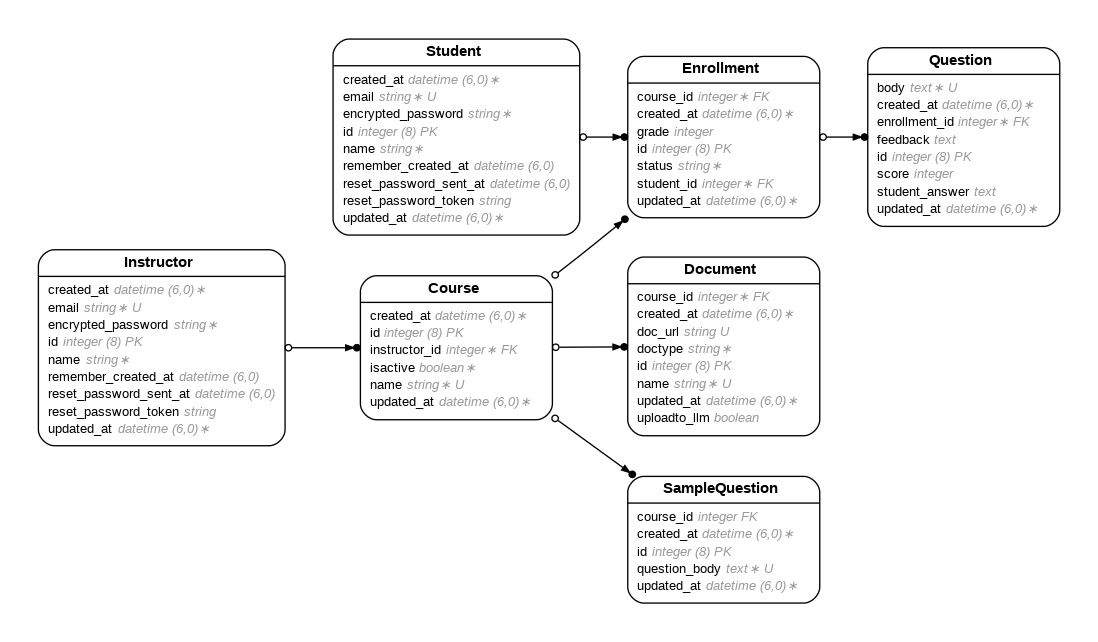
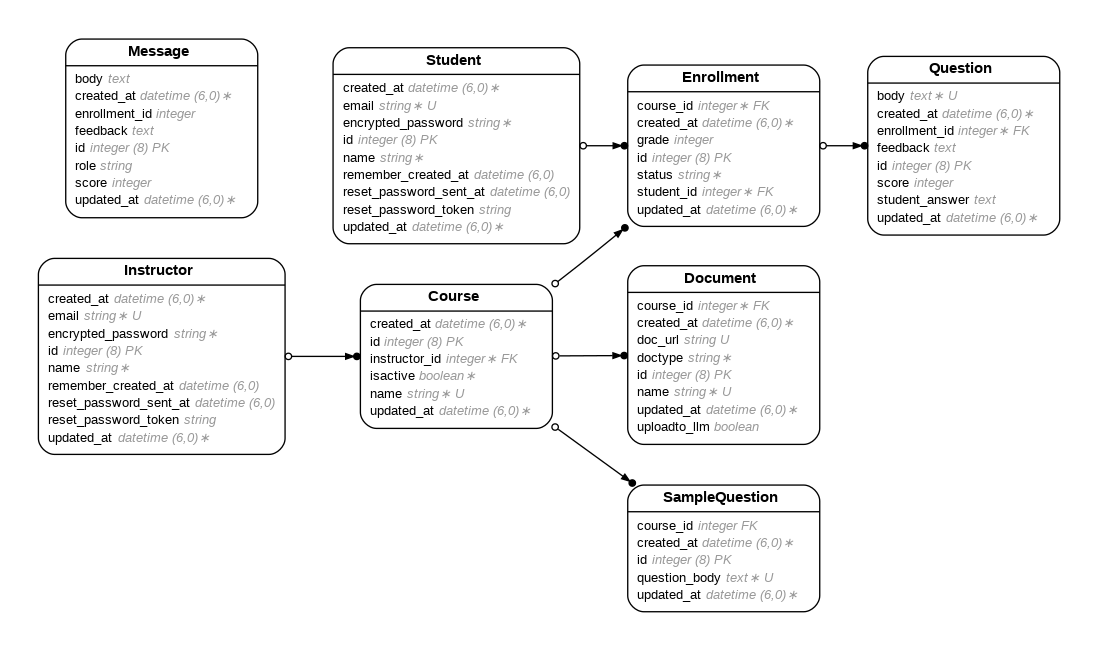
added messages model. Still working on views.

diff --git a/app/controllers/student_controller.rb b/app/controllers/student_controller.rb
@@ -23,4 +23,27 @@ class StudentController < ApplicationController
     end
   end
 
+  def message_create
+    the_message = Message.new
+    the_message.enrollment_id = params.fetch("query_enrollment_id")
+    the_message.body = params.fetch("query_body")
+    the_message.role = params.fetch("query_role")
+    the_message.score = params.fetch("query_score")
+    the_message.feedback = params.fetch("query_feedback")
+
+    if the_message.valid?
+      the_message.save
+      redirect_to("/enrollments/#{the_message.enrollment_id}", { :notice => "Message created successfully." })
+    else
+      redirect_to("/enrollments/#{the_message.enrollment_id}", { :alert => the_message.errors.full_messages.to_sentence })
+    end
+  end
+
+  def message_destroy
+    the_message = Message.where({ :id => params[("path_id")] }).first
+    enrollment_id = the_message.enrollment_id
+    the_message.destroy
+    redirect_to("/enrollments/#{enrollment_id}", { :notice => "Message deleted successfully."} )
+  end
+
 end

diff --git a/db/schema.rb b/db/schema.rb
@@ -10,7 +10,7 @@
 #
 # It's strongly recommended that you check this file into your version control system.
 
-ActiveRecord::Schema[7.1].define(version: 2024_12_05_063358) do
+ActiveRecord::Schema[7.1].define(version: 2024_12_07_005448) do
   # These are extensions that must be enabled in order to support this database
   enable_extension "plpgsql"
 
@@ -52,6 +52,16 @@ ActiveRecord::Schema[7.1].define(version: 2024_12_05_063358) do
     t.datetime "updated_at", null: false
     t.index ["email"], name: "index_instructors_on_email", unique: true
     t.index ["reset_password_token"], name: "index_instructors_on_reset_password_token", unique: true
+  end
+
+  create_table "messages", force: :cascade do |t|
+    t.integer "enrollment_id"
+    t.text "body"
+    t.string "role"
+    t.integer "score"
+    t.text "feedback"
+    t.datetime "created_at", null: false
+    t.datetime "updated_at", null: false
   end
 
   create_table "questions", force: :cascade do |t|

diff --git a/app/models/message.rb b/app/models/message.rb
@@ -1,0 +1,23 @@
+# == Schema Information
+#
+# Table name: messages
+#
+#  id            :bigint           not null, primary key
+#  body          :text
+#  feedback      :text
+#  role          :string
+#  score         :integer
+#  created_at    :datetime         not null
+#  updated_at    :datetime         not null
+#  enrollment_id :integer
+#
+class Message < ApplicationRecord
+
+  validates :body, presence: true
+  validates :role, presence: true
+  validates :role, inclusion: { in: [ "system", "user", "assistant" ] }
+
+  belongs_to :enrollment
+
+
+end

diff --git a/config/routes.rb b/config/routes.rb
@@ -6,6 +6,9 @@ Rails.application.routes.draw do
   get("/student_home", { :controller => "student", :action => "home" })
   # QUESTION
   post("/insert_question", { :controller => "student", :action => "question_create" })
+  # MESSAGE
+  post("/insert_message", { :controller => "student", :action => "message_create" })  
+  get("/delete_message/:path_id", { :controller => "student", :action => "message_destroy" })
   #------------------------------
 
   devise_for :instructors

diff --git a/db/migrate/20241207005448_create_messages.rb b/db/migrate/20241207005448_create_messages.rb
@@ -1,0 +1,13 @@
+class CreateMessages < ActiveRecord::Migration[7.1]
+  def change
+    create_table :messages do |t|
+      t.integer :enrollment_id
+      t.text :body
+      t.string :role
+      t.integer :score
+      t.text :feedback
+
+      t.timestamps
+    end
+  end
+end

diff --git a/app/models/enrollment.rb b/app/models/enrollment.rb
@@ -21,5 +21,6 @@ class Enrollment < ApplicationRecord
   belongs_to :course
   belongs_to :student
   has_many  :questions, dependent: :destroy
+  has_many  :messages, dependent: :destroy
 
 end
